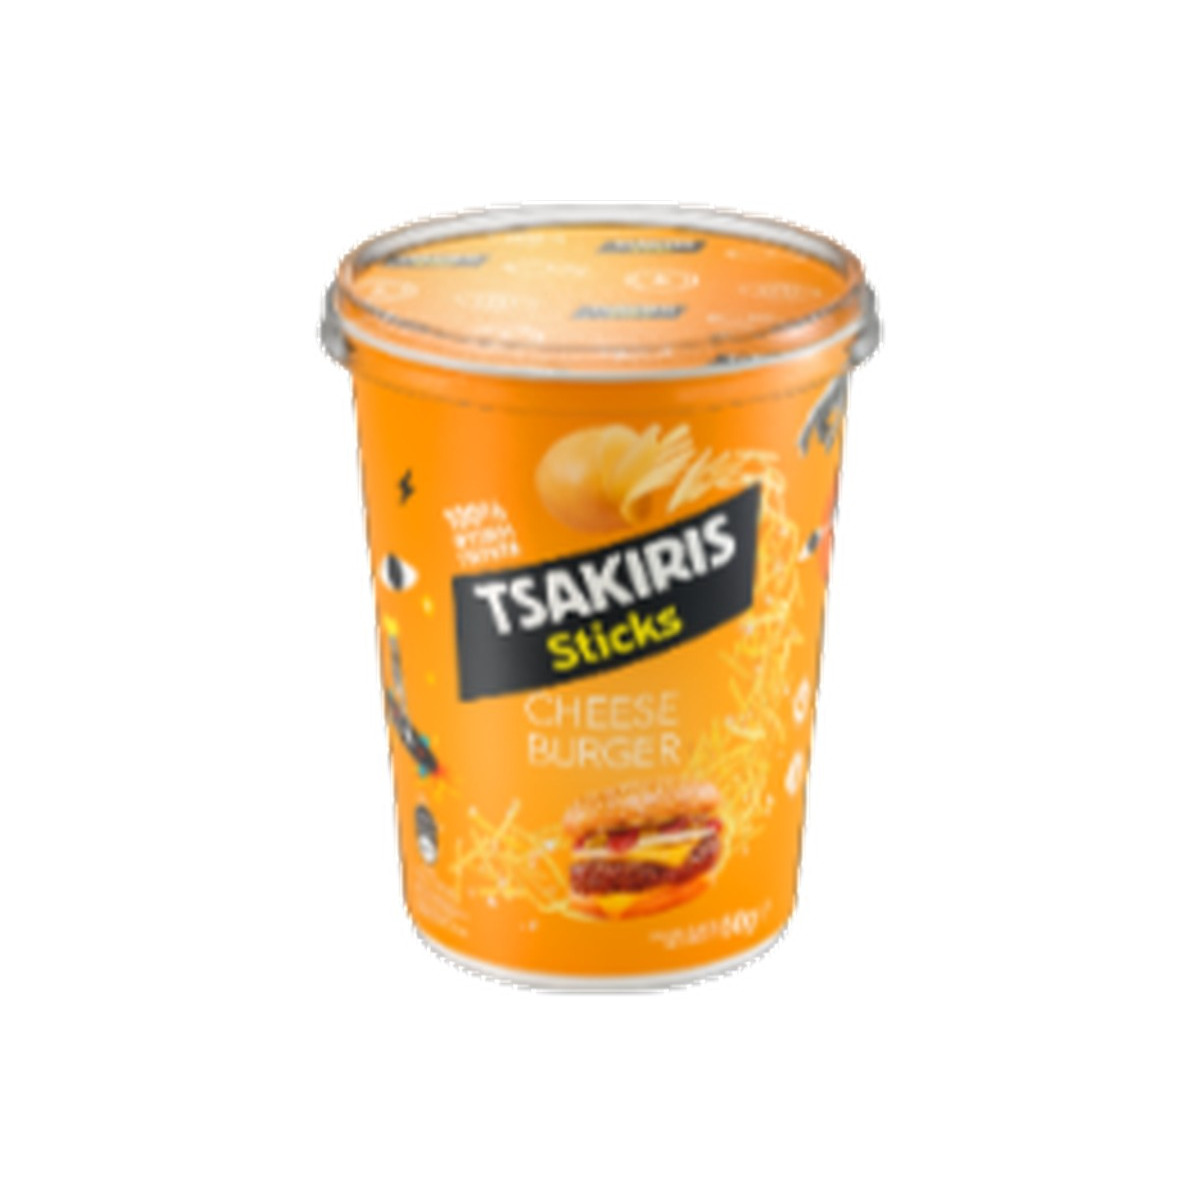
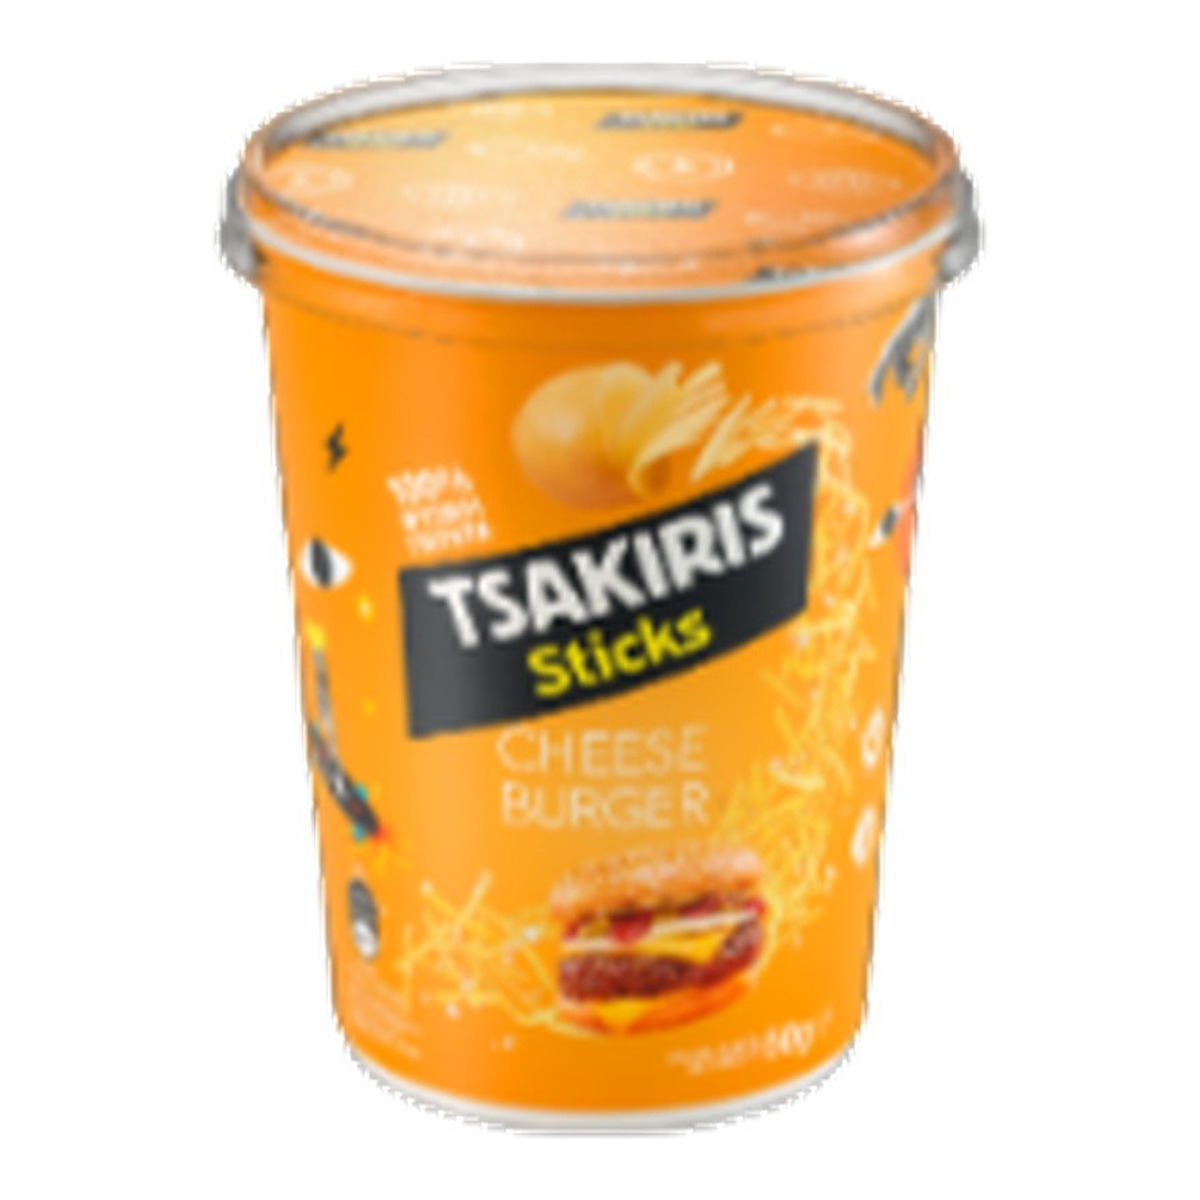
Enlarge snack photos so packs fill 90% of the square
No larger exact packshots were found on official Tsakiris/PepsiCo or the checked Greek retailers, so every snack is recarded from the current exact pack on a 1200x1200 white square with the longer side at ~90% (LANCZOS, 1.25–1.57x, light sharpen). Bump catalog photos to ?v=36. Prices unchanged.

diff --git a/src/lib/catalog.ts b/src/lib/catalog.ts
@@ -259,7 +259,7 @@ export const DEFAULT_SHOP: ShopSettings = {
   hoursNote: "Καθημερινά",
 };
 
-const img = (file: string) => `/images/products/${file}?v=35`;
+const img = (file: string) => `/images/products/${file}?v=36`;
 
 const BASE_MENU: Omit<Product, "stock">[] = [
   { id: "esp", name: "Espresso", desc: "Μονός, κοντός, με κρέμα", price: 1.8, cat: "coffee", photo: img("espresso.jpg") },
